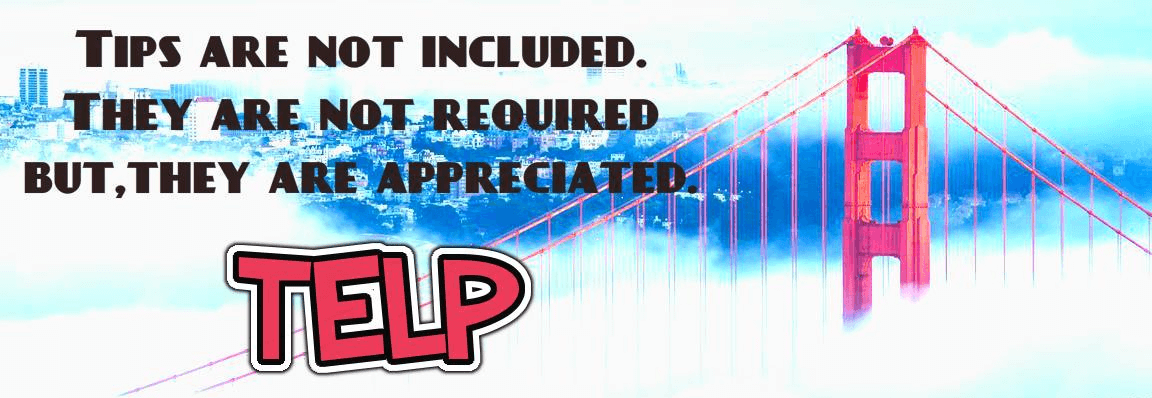
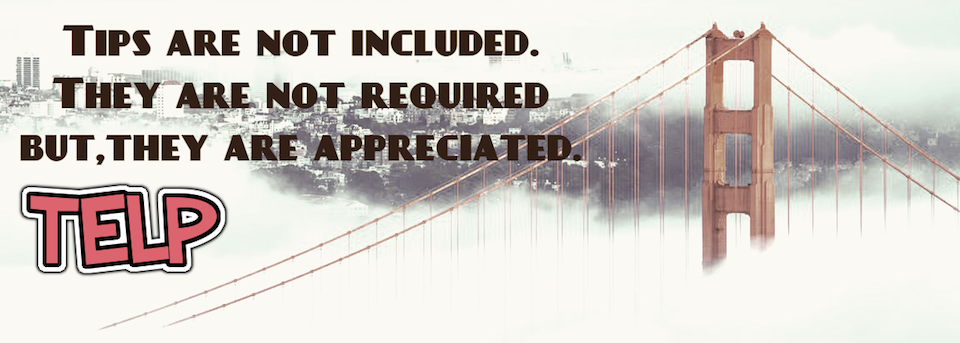
images with border added, color to navbar, blank boxes to the text

diff --git a/templates/admin.html b/templates/admin.html
@@ -33,33 +33,35 @@
     <br>
 
     <!-- admin features -->
-    <div class="container" id="text-center-to-div">
+    <div class="container card" id="text-center-to-div">
+        <div class="card-body">
         
-        <h1>Welcome Admin {{ username }}</h1>
+            <h1>Welcome Admin {{ username }}</h1>
 
-        <p>What do you want to do:</p>
+            <p>What do you want to do:</p>
         
-        <p>> Update - delete restaurants from database there aren't in YELP anymore <br>(<i>Are you sure? That feature takes a long time</i>)
-            <input type="button" id="delete" value="Update">
-            <span id="restaurants-deleted"></span>
-        </p>
-        
+            <ul>
+                <p>> Update - delete restaurants from database there aren't in YELP anymore <br>(<i>Are you sure? That feature takes a long time</i>)
+                <input type="button" id="delete" value="Update">
+                <span id="restaurants-deleted"></span></p>
+            
+                <p>> Change your password
+                <input type="button" id="change-pwd" value="Change pwd">
+                </p>
+                
+                <form hidden id="change-pwd-form" action="/change-pwd" method="POST">
+                    <label>New password:
+                        <input type="password" name="new_password" id="pwd-field" required>
+                    </label>
+                    <input type="submit" id="update-pwd" value="Update pwd">
+                    <span id="pwd-changed"></span>
+                </form>
 
-        <p>> Change your password
-            <input type="button" id="change-pwd" value="Change pwd">
-        </p>
-        <form hidden id="change-pwd-form" action="/change-pwd" method="POST">
-            <label>New password:
-                <input type="password" name="new_password" id="pwd-field" required>
-            </label>
-            <input type="submit" id="update-pwd" value="Update pwd">
-            <span id="pwd-changed"></span>
-        </form>
+                <span id="pwd-changed"></span>
 
-        <span id="pwd-changed"></span>
-
-        <p>> <a href="/logout">Log Out</a></p>
-
+                <p>> <a href="/logout">Log Out</a></p>
+            </ul>
+        </div>
     </div>
 
     <!-- control admin functions -->

diff --git a/templates/prova.html b/templates/prova.html
@@ -1,0 +1,61 @@
+{% extends 'base.html' %}
+
+{% block title %}Homepage{% endblock %}
+
+{% block content %}
+<form>
+  <div class="form-group row">
+    <label for="inputEmail3" class="col-sm-2 col-form-label">Email</label>
+    <div class="col-sm-10">
+      <input type="email" class="form-control" id="inputEmail3" placeholder="Email">
+    </div>
+  </div>
+  <div class="form-group row">
+    <label for="inputPassword3" class="col-sm-2 col-form-label">Password</label>
+    <div class="col-sm-10">
+      <input type="password" class="form-control" id="inputPassword3" placeholder="Password">
+    </div>
+  </div>
+  <fieldset class="form-group">
+    <div class="row">
+      <legend class="col-form-label col-sm-2 pt-0">Radios</legend>
+      <div class="col-sm-10">
+        <div class="form-check">
+          <input class="form-check-input" type="radio" name="gridRadios" id="gridRadios1" value="option1" checked>
+          <label class="form-check-label" for="gridRadios1">
+            First radio
+          </label>
+        </div>
+        <div class="form-check">
+          <input class="form-check-input" type="radio" name="gridRadios" id="gridRadios2" value="option2">
+          <label class="form-check-label" for="gridRadios2">
+            Second radio
+          </label>
+        </div>
+        <div class="form-check disabled">
+          <input class="form-check-input" type="radio" name="gridRadios" id="gridRadios3" value="option3" disabled>
+          <label class="form-check-label" for="gridRadios3">
+            Third disabled radio
+          </label>
+        </div>
+      </div>
+    </div>
+  </fieldset>
+  <div class="form-group row">
+    <div class="col-sm-2">Checkbox</div>
+    <div class="col-sm-10">
+      <div class="form-check">
+        <input class="form-check-input" type="checkbox" id="gridCheck1">
+        <label class="form-check-label" for="gridCheck1">
+          Example checkbox
+        </label>
+      </div>
+    </div>
+  </div>
+  <div class="form-group row">
+    <div class="col-sm-10">
+      <button type="submit" class="btn btn-primary">Sign in</button>
+    </div>
+  </div>
+</form>
+{% endblock %}

diff --git a/templates/homepage.html b/templates/homepage.html
@@ -32,33 +32,34 @@
 
     <!-- Header image -->
     <div class="text-center">
-        <img src="/static/img/header.png" class="img-fluid,rounded" alt="Responsive image">
+        <img src="/static/img/header.png" class="border border-secondary" alt="Responsive image">
     </div>
-    <br>
+
+    <br><br>
 
     <!-- Search by restaurant or zipcode -->
-    <div class="container" id="text-center-to-div">
-        
-        <form name="search_restaurant" action="/search-restaurant" method="GET">
-            <div>
+    <div class="container card" id="text-center-to-div">
+        <div class="card-body">
+            <form name="search_restaurant" action="/search-restaurant" method="GET">
+            
                 <label> Restaurant name: 
                     <input type="text" name="restaurant_name" required="False">
                     <input type="submit" name="search" value="Search by Restaurant">
                 </label>
-            </div>
-        </form><br>
+
+            </form><br>
         
-        <form name="search_zipcode" action="/search-zipcode" method="GET">
-            <div>
+            <form name="search_zipcode" action="/search-zipcode" method="GET">
+        
                 <label> Zipcode: 
                     <input type="text" name="zipcode" required="False">
                     <input type="submit" name="search" value="Search by Zipcode">
                 </label>
-            </div>
-        </form><br>
+            
+            </form><br>
      
-        <div>Introduce the restaurant name or the zipcode and it will show the average tip and a tip-calculator to help you out.</div>
-        
+            <div>Introduce the restaurant name or the zipcode and it will show the average tip and a tip-calculator to help you out.</div>
+        </div>  
     </div>
 
   

diff --git a/templates/telp.html b/templates/telp.html
@@ -31,14 +31,14 @@
     <br>
 
     <!-- Average info, tip Calculator and map -->
-    <div class="container">
-        <div class="row">
+    <div class="container card">
+        <div class="row card-body">
             <div class="col-12 col-md-6 col-lg-6">
                 <!-- Show average info -->
                 <ul>
                 <!-- if user search by restaurant -->
                 {% if restaurant_name %} 
-                    <h4>Restaurant {{ restaurant_name }} ({{ restaurant_address }})</h4>
+                    <h2>Restaurant {{ restaurant_name }} ({{ restaurant_address }})</h2>
 
                     {% if average_tip_lunch %}
                         <li>Lunch average tip: {{ average_tip_lunch }} %</li>
@@ -68,10 +68,11 @@
 
                 {% endif %}
                 </ul>
+                <br>
 
                 <!-- show tip calculator -->
                 <ul>
-                    <h3>Tip Calculator</h3>
+                    <h2>Tip Calculator</h2>
                     <form name="meal" action="/new-meal" id="meal" method="POST">
 
                     <!-- only if user search by restaurant -->
@@ -106,8 +107,18 @@
                 </ul>
             </div>
 
-            <!-- show the map -->
-            <div class="col-12 col-md-6 col-lg-6" id="map"></div>   
+            {% if restaurant_name or zipcode %}
+                <!-- show the map -->
+                <div class="col-12 col-md-6 col-lg-6 border border-secondary" id="map"></div>
+            
+            {% else %}
+            <!-- show a picture -->
+                <div class="col-12 col-md-6 col-lg-6 ">
+                    <br><br>
+                    <img src="/static/img/calculator.png">
+                </div> 
+
+            {% endif %}
         </div>
     </div>
 

diff --git a/templates/confirm-restaurant.html b/templates/confirm-restaurant.html
@@ -28,12 +28,13 @@
             </ul>
         </div>
     </nav>
-    <br>
+    <br><br>
 
     <!-- Confirm restaurant -->
     <div class="container">
         <div class="row">
-            <div class="col-12 col-md-5 col-lg-5">
+            <div class="col-12 col-md-4 col-lg-4 card">
+                <div class="card-body">
                 <form name="show_restaurants" action="/get-tip-info" method="POST">
         
                     <p>What restaurant did you mean?</p>  
@@ -54,14 +55,16 @@
                     <input type="submit" value="Go">
 
                 </form>
-                
+                </div>
             </div>
 
-            <div class="col-12 col-md-5 col-lg-5">
-                    
+            <div class="col-12 col-md-5 col-lg-5 card">
+                
+                <div class="card-body">
+                <br>
                 <form name="restaurant_not_found" action="/search-again" method="POST">
 
-                    <p>It is no here!</p>
+                    <p>If your restaurant is not in the list, click 'Search again' until you find it.</p>
 
                     <input type="hidden" name="restaurant_not_found" id="restaurant-not-found-field" value="{{ restaurant_name }}">
         
@@ -79,10 +82,11 @@
                     <input type="submit" value="Go">
 
                 </form>
+                </div>
             </div>
 
-            <div class="col-12 col-md-2 col-lg-2" id="map">
-                <img src="/static/img/logo.png" class="img-fluid,rounded" alt="Responsive image">
+            <div class="col-12 col-md-3 col-lg-3 text-center">
+                <img src="/static/img/restaurant.png" class="border border-secondary">
             </div>   
         </div>
     </div>

diff --git a/templates/login-form.html b/templates/login-form.html
@@ -30,27 +30,28 @@
     <br>
 
     <!-- Login form -->
-    <div class="container" id="text-center-to-div">
-        
-        <h1>Login</h1>
-        <form action="/login" method="POST">
-            <div>
-                <label>Username:
-                    <input type="username" name="username" required>
-                </label>
-            </div>
+    <div class="container card" id="text-center-to-div">
+        <div class="card-body">
+            <h1>Login</h1>
+            <form action="/login" method="POST">
+                <div>
+                    <label>Username:
+                        <input type="username" name="username" required>
+                    </label>
+                </div>
 
-            <div>
-                <label>Password:
-                    <input type="password" name="password" required>
-                </label>
-            </div>
+                <div>
+                    <label>Password:
+                        <input type="password" name="password" required>
+                    </label>
+                </div>
 
-            <div>
-                <input type="submit" value="Log In">
-            </div>
+                <div>
+                    <input type="submit" value="Log In">
+                </div>
 
-        </form>
+            </form>
+        </div>
     </div>
 
 {% endblock %}

diff --git a/static/css/styles.css b/static/css/styles.css
@@ -10,3 +10,21 @@
 #text-center-to-div{
     padding-left: 200px;
 }
+
+body {
+    font-family: "Arial", sans-serif;
+    background-image: url(/static/img/cloth.png);
+}
+
+h1, h2, h3, h4, h5, h6 {
+    font-family: "Arial", sans-serif;
+    font-weight: bold;
+}
+
+.navbar-light .navbar-nav .nav-link {
+    color: white;
+}
+
+.bg-light {
+    background-color: rgba(215, 98, 108, 1)!important;
+}

diff --git a/yelp_requests.py b/yelp_requests.py
@@ -53,7 +53,7 @@ def search_restaurants_by_name(name, city = "San Francisco"):
     return call_yelp_api(url)
 
 
-def search_restaurants_by_name_paginate(name, offset, city = "San Francisco"):
+def search_restaurants_by_name_paginate(name, limit, offset, city = "San Francisco"):
     """Search restaurant by name and city in YELP API,
     the search in YELP is not precise, so normally there are more than one
     restaurant in the response.
@@ -77,7 +77,7 @@ def search_restaurants_by_name_paginate(name, offset, city = "San Francisco"):
 
     """
 
-    url = "https://api.yelp.com/v3/businesses/search?categories=restaurants,bars,coffee&term={name}&location={city}&offset={offset}".format(name=name, city=city, offset=offset)
+    url = "https://api.yelp.com/v3/businesses/search?categories=restaurants,bars,coffee&term={name}&location={city}&limit={limit}&offset={offset}".format(name=name, city=city, limit=limit, offset=offset)
     
     return call_yelp_api(url)
 
@@ -108,7 +108,7 @@ def search_restaurants(city = "San Francisco"):
 
     restaurants = []
 
-    limit =20
+    limit =10
 
     num_requests = 2
 

diff --git a/server.py b/server.py
@@ -8,7 +8,6 @@ from jinja2 import StrictUndefined
 from flask import Flask, render_template, redirect, request, flash, session, jsonify
 from flask_debugtoolbar import DebugToolbarExtension
 from sqlalchemy import func
-# from sqlalchemy import func, update
 
 from model import Restaurant, Meal, Admin, connect_to_db, db
 from yelp_requests import search_restaurants_by_name, search_restaurants, search_restaurants_by_name_paginate, search_restaurants_by_id
@@ -158,7 +157,7 @@ def search_again():
 
     num_of_clicks = int(request.form.get("counter"))
 
-    limit = 20
+    limit = 6
     offset = 0
 
     if num_of_clicks == 2:
@@ -166,7 +165,7 @@ def search_again():
     elif num_of_clicks > 2:
         offset = num_of_clicks * limit
 
-    restaurants = search_restaurants_by_name_paginate(restaurant_name, offset)
+    restaurants = search_restaurants_by_name_paginate(restaurant_name, limit, offset)
 
     add_restaurants_to_db(restaurants)
     
